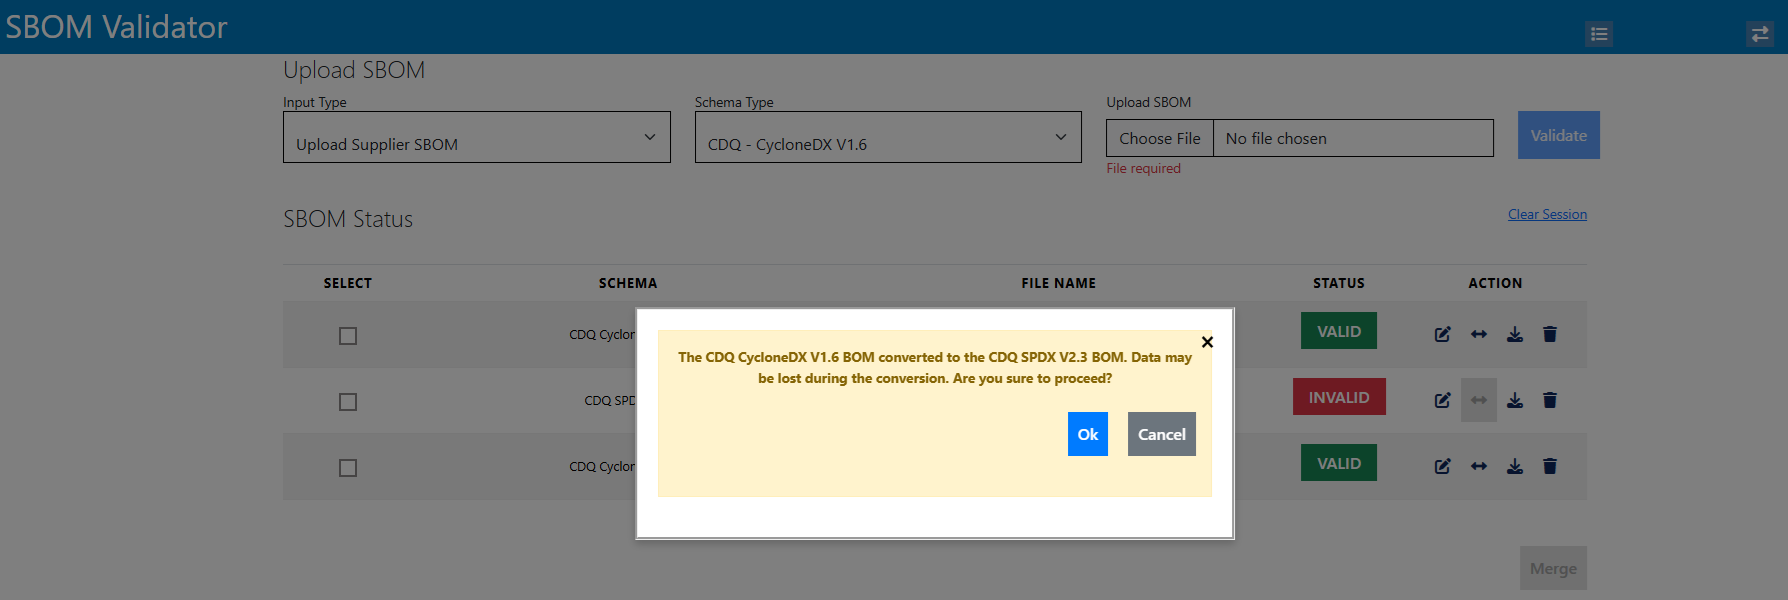
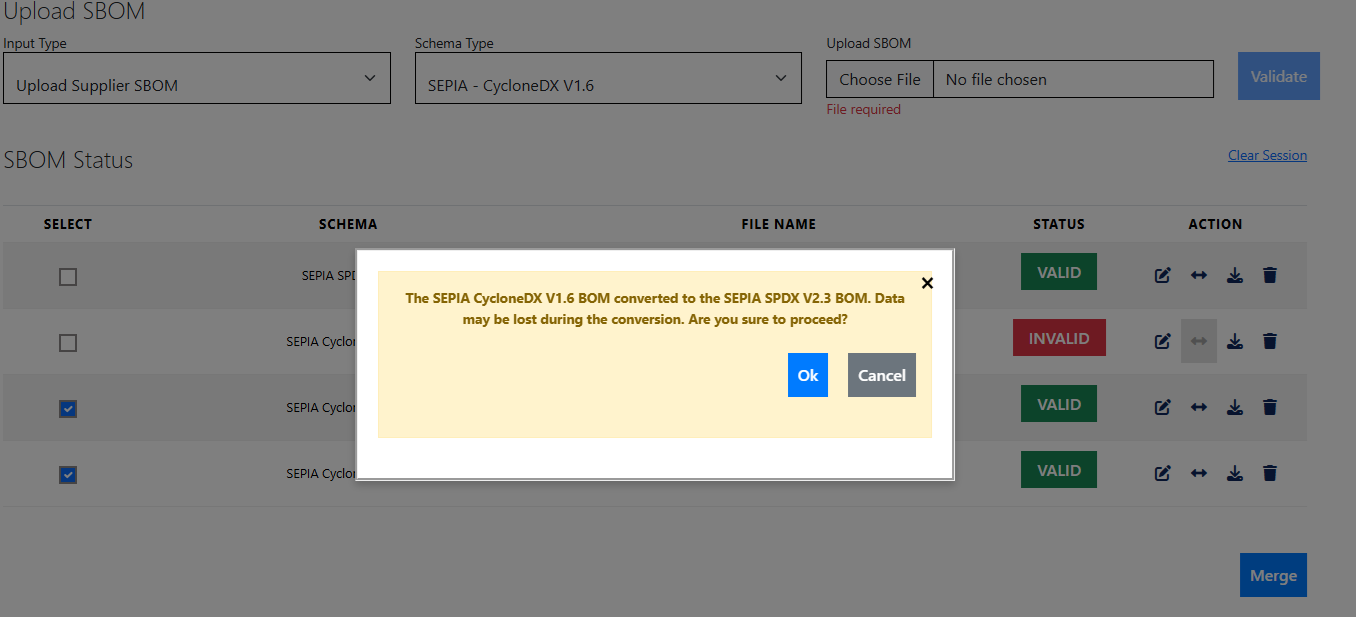
Convert option details updated in to Documentation.md file

diff --git a/Documentation.md b/Documentation.md
@@ -4,10 +4,11 @@
 
 | Category | Feature | Description |
 |---|---|---|
-| Input types | Upload SBOM File | User can upload an SBOM file in JSON format. Supported versions are:<br>• CycloneDX – v1.4<br>• SPDX – v2.3<br>• CDQ SPDX – v2.3<br>• CDQ CycloneDX – v1.6<br>• Custom Schema |
+| Input types | Upload SBOM File | User can upload an SBOM file in JSON format. Supported versions are:<br>• CycloneDX – v1.4<br>• SPDX – v2.3<br>• SEPIA SPDX – v2.3<br>• SEPIA CycloneDX – v1.6<br>• Custom Schema<br>• Automotive SPDX – v2.3<br>• Automotive CycloneDX – v1.6 |
 | Operations | Validate | Validate the uploaded SBOM against the corresponding schema. If no errors are found, the BOM is valid. Otherwise, the file is not valid and the errors or missing properties are displayed. |
 |            | Edit & Download | User can edit and download the SBOM in JSON/YAML format. |
 |            | Merge | Merge multiple valid SBOM files of the same schema type. |
+|            | Convert | Conversion between SEPIA CycloneDX v1.6 & SEPIA SPDX v2.3 SBOMs. |
 
 ---
 
@@ -19,9 +20,11 @@ Users can upload an SBOM file in JSON format. Supported schema type versions are
 
 - CycloneDX – v1.4
 - SPDX – v2.3
-- CDQ SPDX – v2.3
-- CDQ CycloneDX – v1.6
+- SEPIA SPDX – v2.3
+- SEPIA CycloneDX – v1.6
 - Custom Schema
+- Automotive CycloneDX – v1.6
+- Automotive SPDX – v2.3
 
 Click the **Validate** button after uploading the file. The uploaded SBOM is validated against the corresponding schema. If no errors are found, the BOM is valid. Otherwise, the file is not valid and the errors or missing properties are displayed.
 
@@ -56,18 +59,20 @@ curl --noproxy localhost \
 
 #### Parameters
 
-- **`API_PATH`** – Backend service hosted location.
+- **`API_PATH`** – Backend service hosted location
+  Example:
+  - `http://localhost:9053/uploadAndValidate\`
 
 - **`SELECT_SchemaType`** – Indicates the uploaded file schema type:
 
   | Value | Schema |
   |---|---|
-  | `cdqcydx` | CDQ CycloneDX v1.6 |
+  | `cdqcydx` | SEPIA CycloneDX v1.6 |
   | `cyclonedx` | CycloneDX v1.4 |
   | `spdx` | SPDX v2.3 |
-  | `cdqspdx2.3` | CDQ SPDX v2.3 |
+  | `cdqspdx2.3` | SEPIA SPDX v2.3 |
 
-- **`USER_NTID`** – User session identifier.
+- **`USER_NTID`** – User session identifier(Optional).
 
 - **`SBOM_File_Path`** – Path to the SBOM file to be uploaded.
 
@@ -111,7 +116,7 @@ curl --noproxy localhost \
   | `custom` | Custom Schema |
 
 
-- **`USER_NTID`** – User session identifier.
+- **`USER_NTID`** – User session identifier(Optional).
 
 - **`SBOM_File_Path`** – Path to the SBOM file to be uploaded.
 
@@ -152,13 +157,13 @@ Users can merge valid SBOMs of the same schema type.
 
 ![alt text](images/merge_result.png)
 
-#### CDQ – CycloneDX 1.6 Merge
+#### SEPIA – CycloneDX 1.6 Merge
 
 The user provides input component data, and the merged CycloneDX 1.6 SBOM is generated accordingly.
 
 ![alt text](images/cyclonedx_merge.png)
 
-#### CDQ – SPDX 2.3 Merge
+#### SEPIA – SPDX 2.3 Merge
 
 The user provides input component data. The user-input package SPDX ID establishes the `contains` relationship between each package in the input files.
 
@@ -180,18 +185,20 @@ curl --noproxy localhost \
 
 #### Parameters
 
-- **`API_PATH`** – Backend service hosted location (http://localhost:9053/validateAndMerge).
+- **`API_PATH`** – Backend service hosted location.
+  Example:
+   - 'http://localhost:9053/validateAndMerge'
 
 - **`SELECT_SchemaType`** – Indicates the uploaded file schema type:
 
   | Value | Schema |
   |---|---|
-  | `cdqcydx` | CDQ CycloneDX v1.6 |
+  | `cdqcydx` | SEPIA CycloneDX v1.6 |
   | `cyclonedx` | CycloneDX v1.4 |
   | `spdx` | SPDX v2.3 |
-  | `cdqspdx2.3` | CDQ SPDX v2.3 |
+  | `cdqspdx2.3` | SEPIA SPDX v2.3 |
 
-- **`USERID`** – User session identifier.
+- **`USERID`** – User session identifier(Optional).
 
 - **`SBOM_File_Path`** – Path to the SBOM files to be merged.
 
@@ -201,16 +208,16 @@ curl --noproxy localhost \
 
 | # | Schema Type   | Reference File        |
 |---|---------------|-----------------------|
-| 1 | cdqcydx       | CycloneDX1.6.json     |
+| 1 | cdqcydx       | SEPIA CycloneDX1.6.json     |
 | 2 | cyclonedx     | CycloneDX1.4.json     |
 | 3 | spdx          | Spdx2.3.json          |
-| 4 | cdqspdx2.3    | CDQ_Spdx2.3.json      |
+| 4 | cdqspdx2.3    | SEPIA_Spdx2.3.json      |
 
 ---
 
 ## Sample JSON Content
 
-### 1. cdqcydx (CycloneDX1.6.json)
+### 1. cdqcydx (SEPIA CycloneDX1.6.json)
 
 ```json
 {
@@ -322,7 +329,7 @@ curl --noproxy localhost \
 
 ---
 
-### 4. cdqspdx2.3 (CDQ_Spdx2.3.json)
+### 4. cdqspdx2.3 (SEPIA_Spdx2.3.json)
 
 ```json
 {
@@ -387,10 +394,10 @@ uploadAndValidate <SBOM_File_Path> <SELECT_SchemaType>
 
   | Value | Schema |
   |---|---|
-  | `cdqcydx` | CDQ CycloneDX v1.6 |
+  | `cdqcydx` | SEPIA CycloneDX v1.6 |
   | `cyclonedx` | CycloneDX v1.4 |
   | `spdx` | SPDX v2.3 |
-  | `cdqspdx2.3` | CDQ SPDX v2.3 |
+  | `cdqspdx2.3` | SEPIA SPDX v2.3 |
 
 ---
 
@@ -430,7 +437,7 @@ customValidate C:\test-data\A1bom.json C:\test-data\schema.json -o C:\test-data\
 
 ### 3. Convert SBOM.
 
-Users can convert valid SBOM of the CDQ CycloneDX v1.6, CDQ SPDX v2.3 schema type.
+Users can convert valid SBOM of the SEPIA CycloneDX v1.6, SEPIA SPDX v2.3 schema type.
 
 Click the Convert button on the valid file.
 
@@ -472,8 +479,8 @@ curl --noproxy localhost \
 
   | Value | Schema |
   |---|---|
-  | `cdqcydx` | CDQ CycloneDX v1.6 |
-  | `cdqspdx2.3` | CDQ SPDX v2.3 |
+  | `cdqcydx` | SEPIA CycloneDX v1.6 |
+  | `cdqspdx2.3` | SEPIA SPDX v2.3 |
 
 - **`SBOM_File_Path`** – Path to the SBOM file to be uploaded.
 
